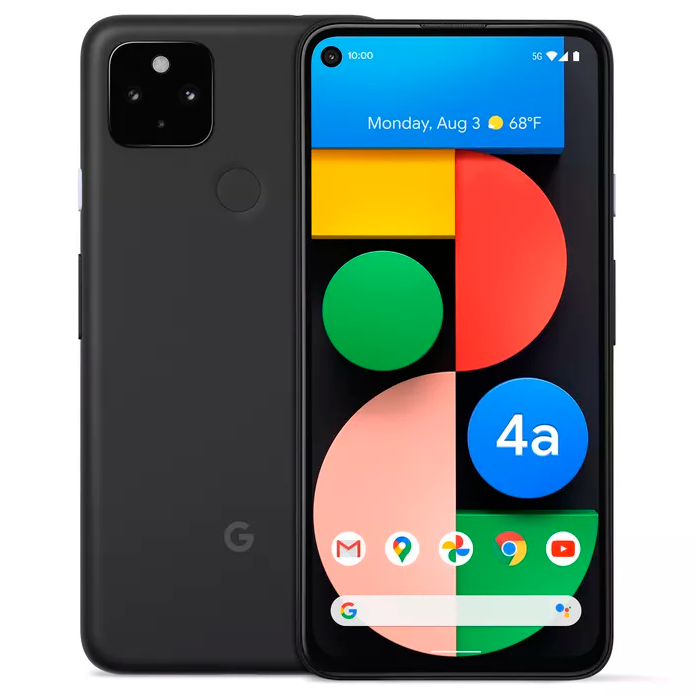
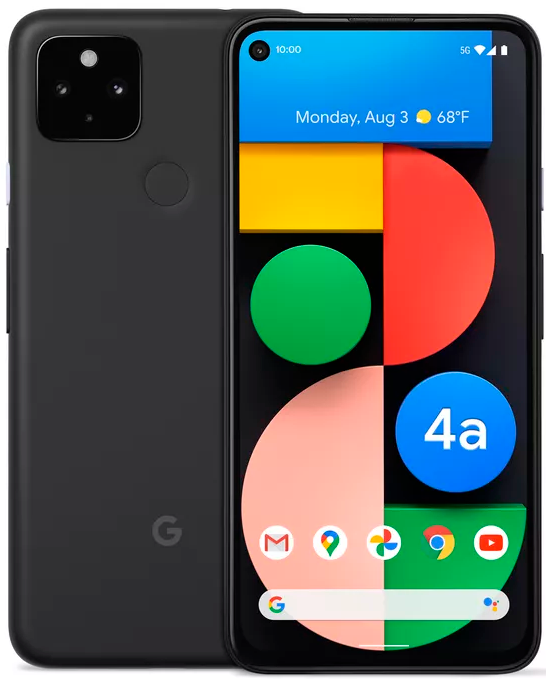
Remove all dead space from product images

diff --git a/buyer/static/styles/category.css b/buyer/static/styles/category.css
@@ -109,6 +109,7 @@
 .content .results .products .product {
     display: flex;
     width: 470px;
+    height: 235px;
 
     margin: 2vh 1vw 2vh 1vw;
     border: 1px solid rgb(190, 190, 190);
@@ -119,7 +120,6 @@
 .content .results .products .product .image-container {
     display: flex;
     width: 210px;
-    height: 250px;
 
     justify-content: center;
     align-items: center;
@@ -127,7 +127,7 @@
 }
 
 .content .results .products .product .image-container img {
-    width: 100%;
+    height: 85%;
 }
 
 .content .results .products .product .details {
@@ -149,7 +149,7 @@
 
 .content .results .products .product .details h2 {
     font-size: 15px;
-    margin: 0.2vh 0 0.8 0;
+    margin: 0.2vh 0 0.8vh 0;
 }
 
 .content .results .products .product .details .procons {
@@ -184,11 +184,15 @@
 @media only screen and (max-width: 1000px) {
     .content .results .products .product {
         flex-direction: column;
-        width: 250px;
+        width: 235px;
         height: 470px;
 
         justify-content: center;
         align-items: center;
+    }
+
+    .content .results .products .product .image-container {
+        height: 250px;
     }
 
     .content .results .products .product .details {

diff --git a/buyer/static/styles/product_popup.css b/buyer/static/styles/product_popup.css
@@ -17,7 +17,7 @@
     flex-wrap: wrap;
     justify-content: center;
 
-    padding: 0 0 4vh 0;
+    padding: 4vh 0 4vh 0;
     text-align: center;
     background-color: rgb(255, 255, 255);
     border-radius: 15px 15px 0 0;
@@ -25,12 +25,12 @@
 }
 
 .product-popup-container .product-popup .image-container {
-    width: 350px;
+    width: 250px;
     display: flex;
     flex-direction: column;
     justify-content: center;
 
-    margin: 4vh 0 0 0;
+    padding: 0 40px 0 40px;
 }
 
 .product-popup-container .product-popup img {
@@ -49,8 +49,6 @@
     max-width: 700px;
     display: flex;
     flex-direction: column;
-
-    margin: 4vh 0 0 0;
 }
 
 .product-popup-container .product-popup .summaries .summary {
@@ -144,7 +142,7 @@
 
 @media only screen and (max-width: 550px) {
     .product-popup-container .product-popup .image-container {
-        width: 300px;
+        width: 200px;
     }
 
     .product-popup-container .product-popup .specs {
